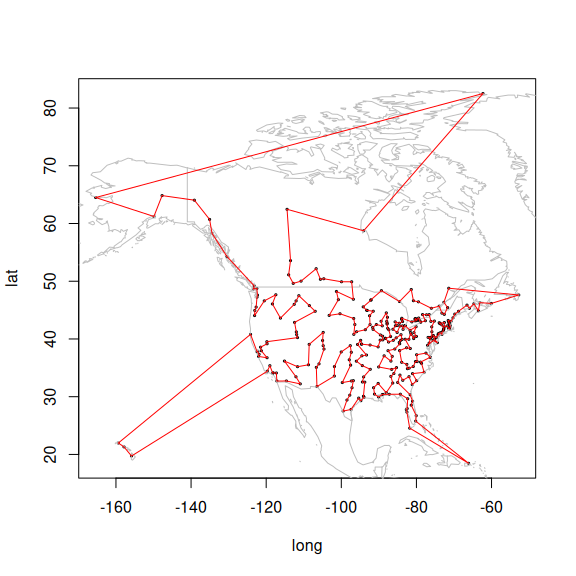
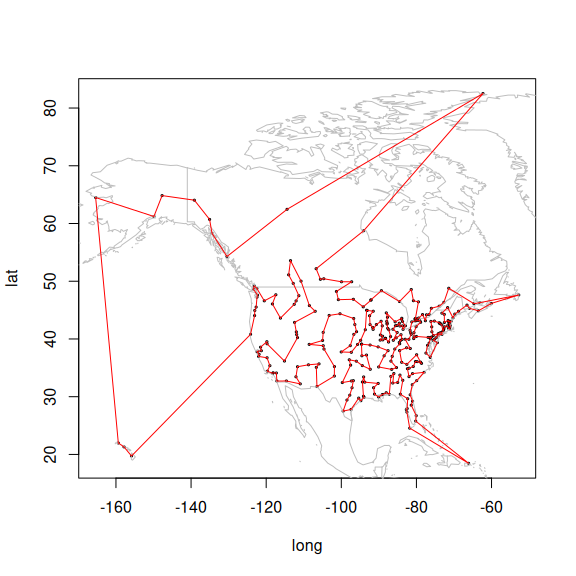
Updated readme. Release.

diff --git a/README.md b/README.md
@@ -52,7 +52,6 @@ The following R packages use `TSP`:
 [nilde](https://CRAN.R-project.org/package=nilde),
 [nlnet](https://CRAN.R-project.org/package=nlnet),
 [PairViz](https://CRAN.R-project.org/package=PairViz),
-[pencopulaCond](https://CRAN.R-project.org/package=pencopulaCond),
 [SCORPIUS](https://CRAN.R-project.org/package=SCORPIUS),
 [sensitivity](https://CRAN.R-project.org/package=sensitivity),
 [seriation](https://CRAN.R-project.org/package=seriation),
@@ -122,7 +121,7 @@ tour
 
     ## object of class 'TOUR' 
     ## result of method 'arbitrary_insertion+two_opt' for 312 cities
-    ## tour length: 40653
+    ## tour length: 41202
 
 Show the first few cities in the tour.
 
@@ -130,12 +129,14 @@ Show the first few cities in the tour.
 head(tour, n = 10)
 ```
 
-    ## Daytona Beach, FL  Jacksonville, FL      Columbus, GA       Atlanta, GA 
-    ##                72               127                65                12 
-    ##         Macon, GA       Augusta, GA      Savannah, GA    Charleston, SC 
-    ##               157                14               250                52 
-    ##      Columbia, SC    Wilmington, NC 
-    ##                64               303
+    ##         Columbus, GA          Atlanta, GA            Macon, GA 
+    ##                   65                   12                  157 
+    ##      Tallahassee, FL      Gainesville, FL            Tampa, FL 
+    ##                  274                  101                  275 
+    ## Saint Petersburg, FL         Sarasota, FL         Key West, FL 
+    ##                  234                  247                  136 
+    ##         San Juan, PR 
+    ##                  243
 
 Visualize the complete tour.
 

diff --git a/NEWS.md b/NEWS.md
@@ -1,4 +1,4 @@
-# TSP 1.2.7 (xx/xx/2026)
+# TSP 1.2.7 (03/22/2026)
 * Improved verbose output for method "sa."
 * Improved man page for solve_TSP (suggested by Henrik Bengtsson).
 * Added TSPLIB support for formats GEO and ATT (by Benjamin Schwedinger).
